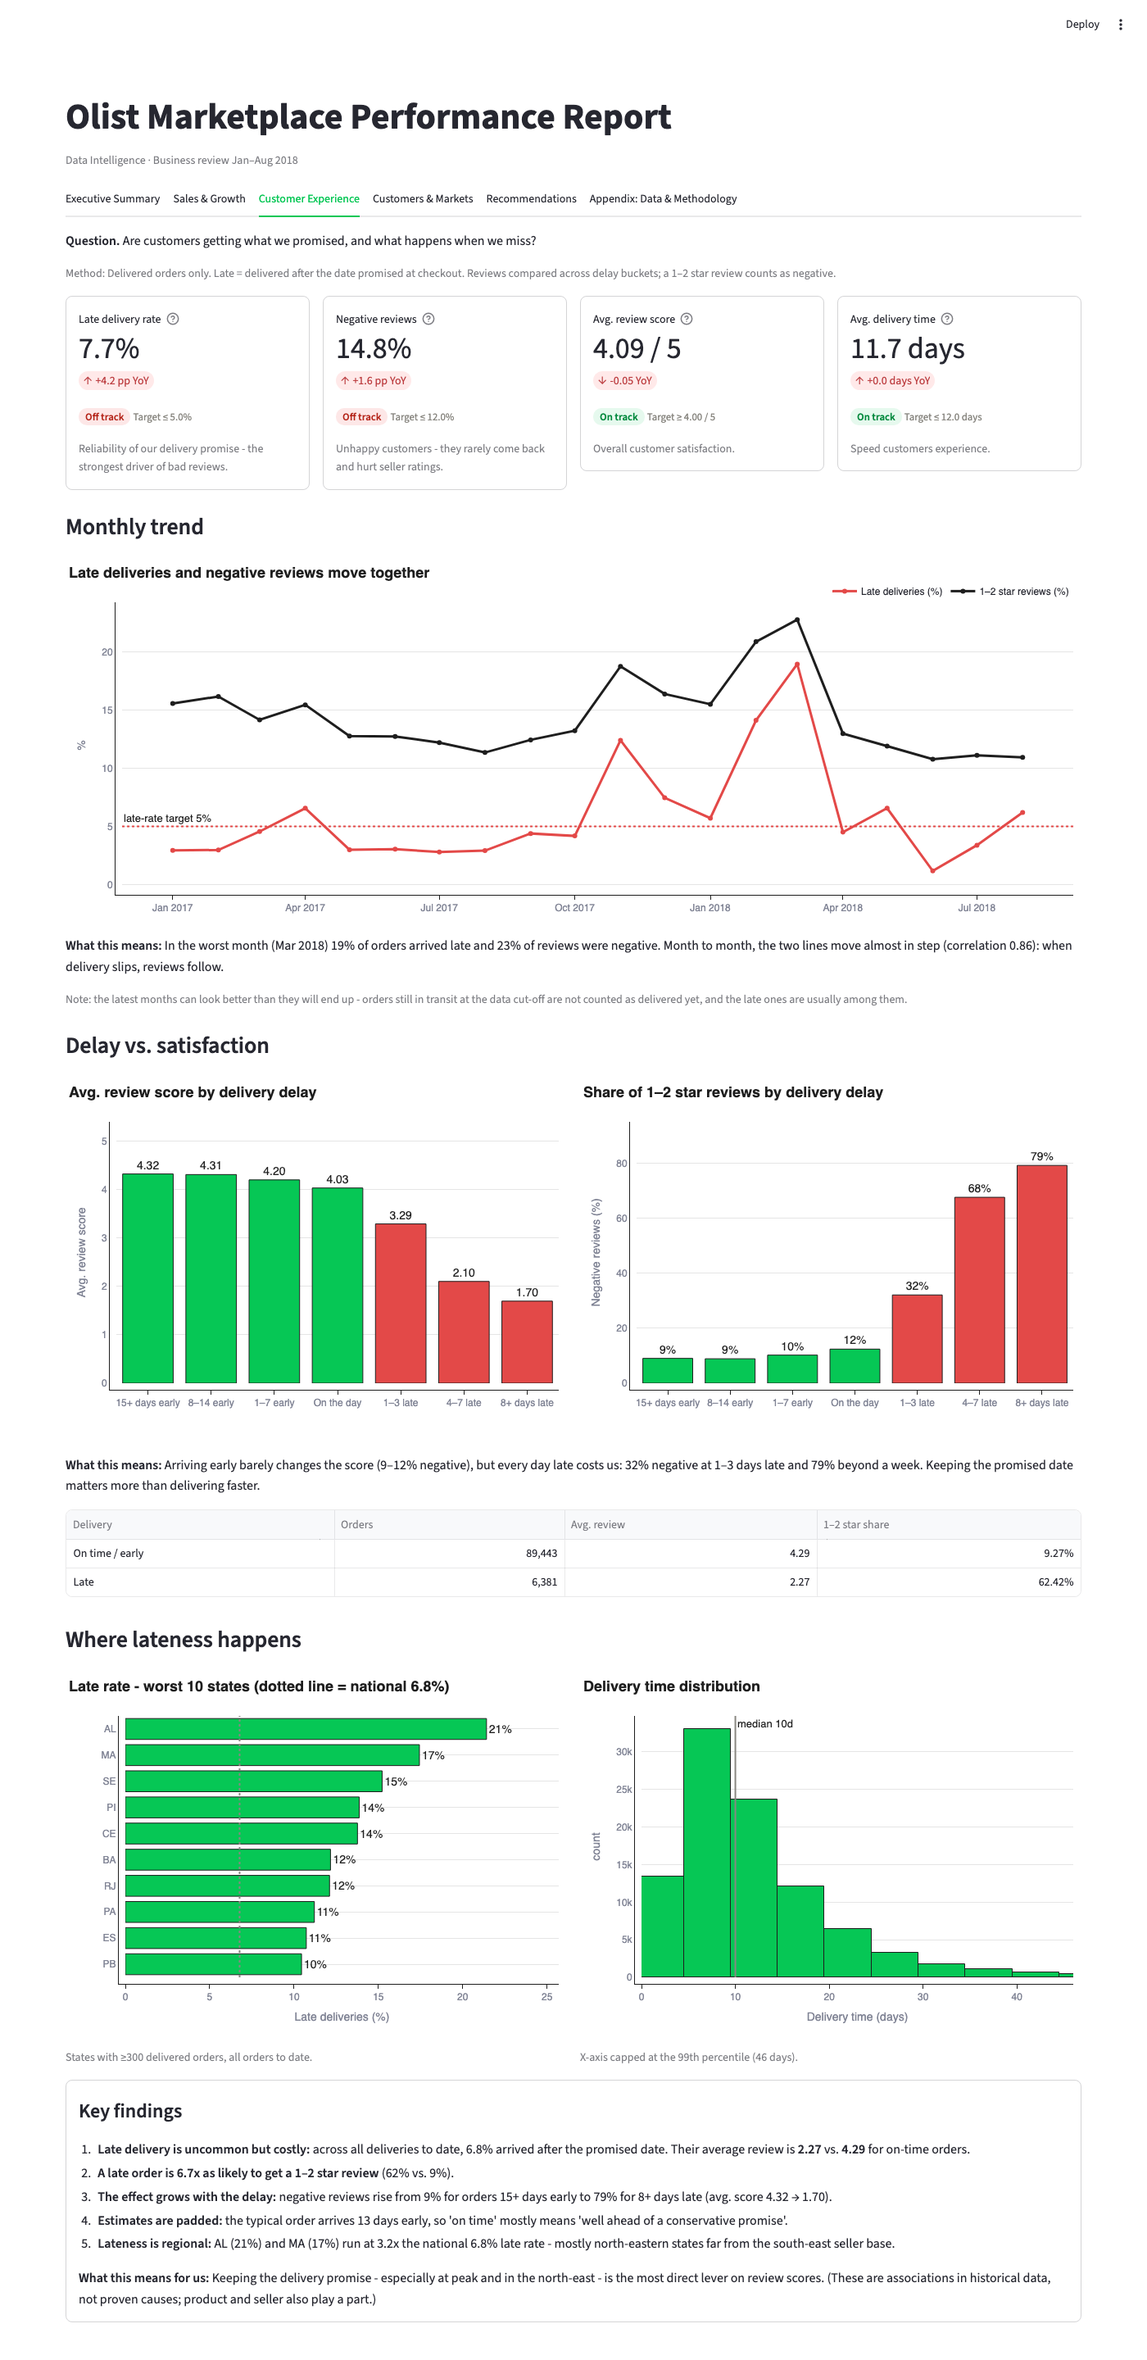
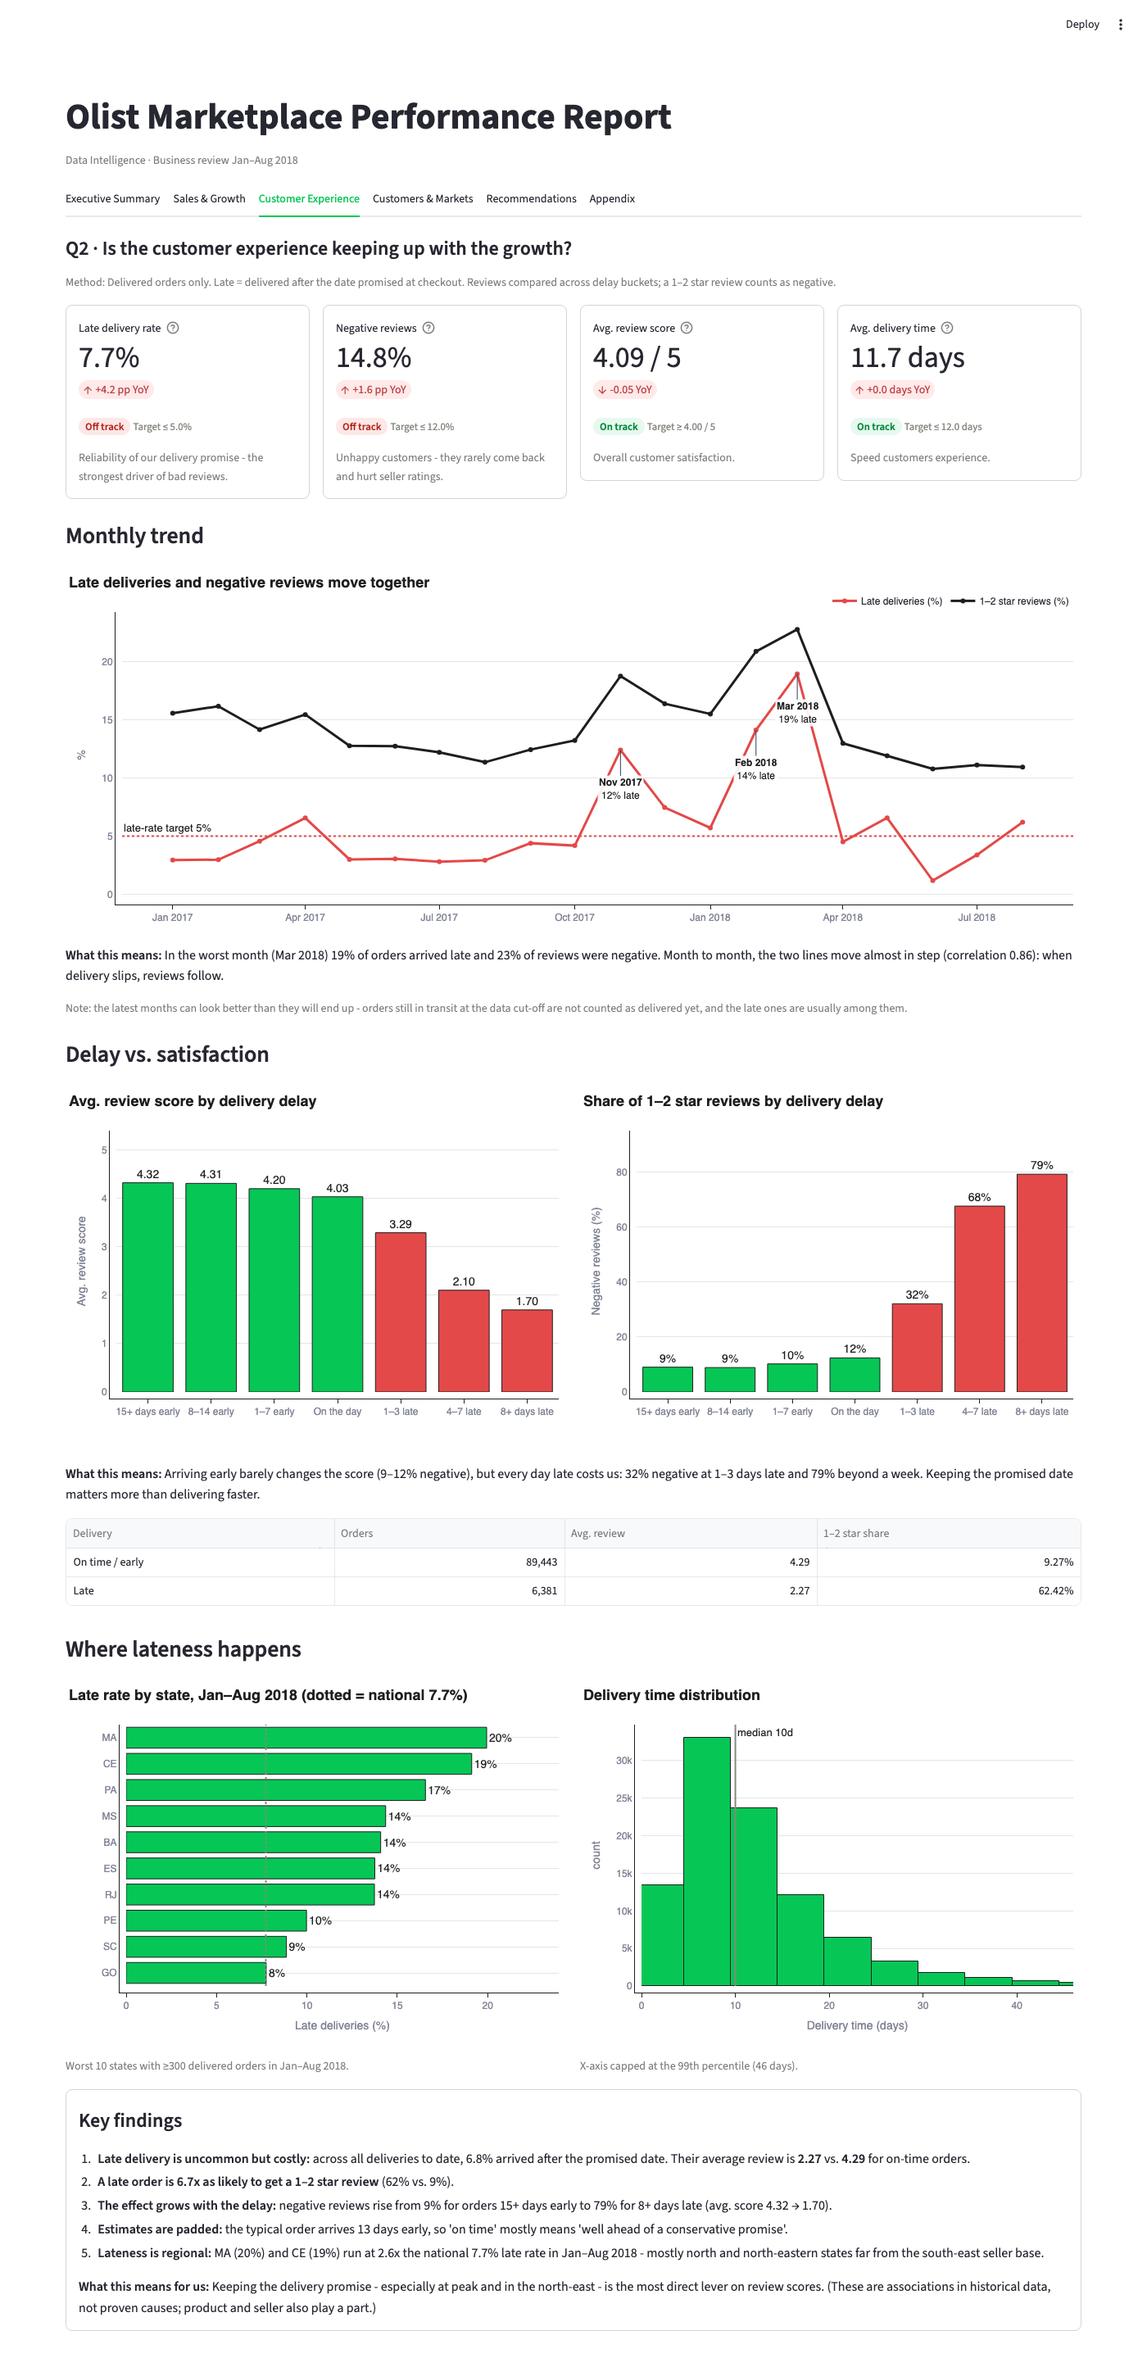
Align report visuals with presentation storyline

diff --git a/src/sections/summary.py b/src/sections/summary.py
@@ -4,6 +4,7 @@ import streamlit as st
 from src.currency import fmt_money_short
 from src.kpis import KPI_BY_KEY, monthly_kpis, render_cards, reporting_periods, scorecard
 from src.sections.recommendations import recommendations
+from src.story import QUESTIONS, annotate_crises, crisis_months
 from src.theme import ACCENT_RED, GRID_GREY, INK, style_fig, takeaway
 
 
@@ -24,6 +25,7 @@ def _growth_vs_reliability_fig():
         legend=dict(orientation="h", y=1.1, x=1, xanchor="right"),
         hovermode="x unified",
     )
+    annotate_crises(fig, yref="y2")
     return style_fig(fig)
 
 
@@ -32,20 +34,36 @@ def render() -> None:
     card = scorecard()
     recs = recommendations()
     monthly = monthly_kpis().set_index("month")
-    crisis = monthly[monthly["late"] > 2 * KPI_BY_KEY["late"].target]
+    crisis = crisis_months().set_index("month")
     last3 = monthly.tail(3)
+    this_year = monthly[monthly.index.year == periods["as_of"].year]
+    peak_month = monthly["orders"].idxmax()
 
     with st.container(border=True):
-        st.markdown("#### Bottom line")
+        st.markdown("#### Problem statement")
         st.markdown(
-            f"We more than doubled the business - GMV **{fmt_money_short(card.loc['gmv', 'current'])}** "
-            f"(**{card.loc['gmv', 'change']:+.0%}** YoY) on **{card.loc['orders', 'current']:,.0f}** orders - "
-            f"but **delivery did not keep up**. The late delivery rate rose from {card.loc['late', 'prior']:.1%} to "
-            f"**{card.loc['late', 'current']:.1%}**, pushing negative reviews to **{card.loc['negative', 'current']:.1%}**. "
-            f"The damage came from peak months ({', '.join(f'{m:%b %Y}' for m in crisis.index)}) and has since "
-            f"recovered, which makes **Black Friday {periods['as_of'].year} the main risk** for the rest of the year. "
-            f"Growth is also almost entirely new customers: only **{card.loc['returning', 'current']:.1%}** of orders "
-            "come from returning buyers.".replace("$", "\\$")
+            "Olist grew very fast through 2017–2018. Fast growth raises a question management needs answered: "
+            f"**is the growth healthy?** With Black Friday {periods['as_of'].year} three months away - our busiest "
+            "period of the year - this review answers three questions:"
+        )
+        where = {1: "Sales & Growth, Customers & Markets", 2: "Customer Experience", 3: "Recommendations"}
+        st.markdown("\n".join(f"{n}. **{q}** *(→ {where[n]})*" for n, q in QUESTIONS.items()))
+
+    with st.container(border=True):
+        st.markdown("#### Answers in short")
+        st.markdown(
+            f"1. **Yes, but growth has levelled off.** GMV {fmt_money_short(card.loc['gmv', 'current'])} "
+            f"(**{card.loc['gmv', 'change']:+.0%}** YoY) on {card.loc['orders', 'current']:,.0f} orders, driven by the "
+            f"jump around Black Friday {peak_month:%Y}; since then volume is flat at "
+            f"{this_year['orders'].min() / 1000:.1f}–{this_year['orders'].max() / 1000:.1f}K orders a month, and a few "
+            "categories and sellers carry most of the revenue.\n"
+            f"2. **No - delivery did not keep up.** The late delivery rate rose from {card.loc['late', 'prior']:.1%} to "
+            f"**{card.loc['late', 'current']:.1%}**, breaking down in the peak months "
+            f"({', '.join(f'{m:%b %Y}' for m in crisis.index)}), and negative reviews rose to "
+            f"**{card.loc['negative', 'current']:.1%}**. Only {card.loc['returning', 'current']:.1%} of orders come "
+            "from returning customers.\n"
+            f"3. **Secure delivery capacity for Black Friday {periods['as_of'].year} first**, then fix the worst-served "
+            "states and start a second-purchase program.".replace("$", "\\$")
         )
 
     st.subheader("KPI scorecard")
@@ -58,10 +76,11 @@ def render() -> None:
 
     st.subheader("The story in one chart")
     st.plotly_chart(_growth_vs_reliability_fig())
+    normal = monthly.loc[monthly.index < crisis.index.min(), "late"].median()
     takeaway(
-        f"Late deliveries stayed near {monthly.loc[:crisis.index.min()].iloc[:-1]['late'].median():.0%} while volume "
-        f"grew steadily, then spiked to {crisis['late'].max():.0%} when demand peaked. Since then the rate is back "
-        f"to {last3['late'].min():.0%}–{last3['late'].max():.0%}. The system works at normal load and breaks at "
+        f"In normal months about {normal:.0%} of orders arrive late. When demand peaked, the late rate jumped to "
+        f"{', '.join(f'{r.late:.0%} ({m:%b %Y})' for m, r in crisis.iterrows())}. It has since recovered to "
+        f"{last3['late'].mean():.1%} on average over the last 3 months. The system works at normal load but breaks at "
         "peak load - that is what to fix before November."
     )
 
@@ -90,7 +109,7 @@ def render() -> None:
                 "- **Concentration risk:** a small group of sellers and categories carries most of the revenue."
             )
 
-    st.subheader("Recommended actions")
+    st.subheader(f"Q3 · {QUESTIONS[3]}")
     for i, r in enumerate(recs[:3], 1):
         st.markdown(f"{i}. **{r['title']}** ({r['priority']} priority, {r['owner']}) - {r['impact']}".replace("$", "\\$"))
     st.caption("Full evidence, actions and impact sizing in the *Recommendations* tab.")

diff --git a/src/sections/sales.py b/src/sections/sales.py
@@ -7,6 +7,7 @@ from src.currency import get_currency
 from src.data_loader import load_order_level
 from src.metrics import category_pareto, monthly_sales, n_for_share, peak_day, seller_pareto, yoy_growth
 from src.kpis import render_cards, reporting_periods
+from src.story import QUESTIONS, question_label
 from src.theme import BRAND_COLOR, NEUTRAL_GREY, INK, key_findings, section_header, style_fig, takeaway
 
 
@@ -29,7 +30,7 @@ def _pareto_fig(p, label, top, title):
 
 def render() -> None:
     section_header(
-        "Are we growing, and where does our revenue come from?",
+        f"{question_label(1)} · {QUESTIONS[1]}",
         "Same months compared year over year; month-over-month change for the latest months; share of revenue "
         "by product category and seller.",
     )
@@ -45,22 +46,29 @@ def render() -> None:
 
     st.subheader("This year vs. last year")
     periods = reporting_periods()
-    yoy_df = m.assign(year=m["month"].dt.year.astype(str), month_name=m["month"].dt.strftime("%b"),
-                      gmv=m["revenue"] / rate)
-    fig = px.line(yoy_df, x="month_name", y="gmv", color="year", markers=True, title="Monthly GMV by year",
-                  labels={"gmv": f"GMV ({symbol})", "month_name": "", "year": ""},
+    yoy_df = m.assign(year=m["month"].dt.year.astype(str), month_name=m["month"].dt.strftime("%b"))
+    this_year = m[m["month"].dt.year == yoy["year"]]
+    fig = px.line(yoy_df, x="month_name", y="orders", color="year", markers=True,
+                  title="Monthly orders by year - a step up at Black Friday, then flat",
+                  labels={"orders": "Orders", "month_name": "", "year": ""},
                   color_discrete_map={str(yoy["year"] - 1): NEUTRAL_GREY, str(yoy["year"]): BRAND_COLOR})
     fig.update_xaxes(categoryorder="array", categoryarray=pd.date_range("2000-01-01", periods=12, freq="MS").strftime("%b"))
-    fig.add_annotation(x=f"{peak_m['month']:%b}", y=peak_m["revenue"] / rate, text=f"Black Friday {peak_m['month']:%Y}",
-                       showarrow=True, arrowhead=0)
-    fig.update_layout(legend=dict(orientation="h", y=1.08, x=1, xanchor="right"))
+    fig.add_hrect(y0=this_year["orders"].min(), y1=this_year["orders"].max(), fillcolor=BRAND_COLOR, opacity=0.08,
+                  line_width=0, annotation_text=f"{yoy['year']}: flat at {this_year['orders'].min() / 1000:.1f}–"
+                  f"{this_year['orders'].max() / 1000:.1f}K orders/month", annotation_position="bottom left")
+    fig.add_annotation(x=f"{peak_m['month']:%b}", y=peak_m["orders"],
+                       text=f"<b>Black Friday {peak_m['month']:%Y}</b><br>{peak_d['date']:%d %b}: "
+                            f"{int(peak_d['orders']):,} orders in one day ({peak_d['orders'] / peak_d['median']:.0f}x normal)",
+                       showarrow=True, arrowhead=0, ax=-60, ay=-40)
+    fig.update_layout(legend=dict(orientation="h", y=1.08, x=1, xanchor="right"),
+                      yaxis_range=[0, yoy_df["orders"].max() * 1.25])
     st.plotly_chart(style_fig(fig))
-    latest = m.iloc[-1]
     takeaway(
         f"Every month of {yoy['year']} is well above the same month of {yoy['year'] - 1} "
-        f"(GMV {yoy['revenue']:+.0%} YoY for {periods['label']}), but the {yoy['year']} line is flat: "
-        f"{latest['month']:%B} GMV was {latest['revenue_mom']:+.0%} vs. the month before. The growth came from the "
-        f"step-up around Black Friday {yoy['year'] - 1}, not from continued monthly growth this year."
+        f"(orders {yoy['orders']:+.0%}, GMV {yoy['revenue']:+.0%} YoY for {periods['label']}), but the {yoy['year']} "
+        f"line is flat at {this_year['orders'].min() / 1000:.1f}–{this_year['orders'].max() / 1000:.1f}K orders a "
+        f"month. The growth came from one big step up around Black Friday {yoy['year'] - 1}, not from continued "
+        "monthly growth this year."
     )
 
     table = m.assign(revenue=m["revenue"] / rate)
@@ -77,7 +85,7 @@ def render() -> None:
             },
         )
 
-    st.subheader("Concentration")
+    st.subheader("Where the revenue comes from - and the concentration risk")
     cats = category_pareto()
     sellers = seller_pareto()
     n80 = n_for_share(cats)
@@ -113,7 +121,6 @@ def render() -> None:
              f"them would hurt more than losing the bottom half. Credit card is the default way to pay, and "
              f"{window['payment_installments'].gt(1).mean():.0%} of orders are paid in installments.")
 
-    this_year = m[m["month"].dt.year == yoy["year"]]
     freight_share = window["freight_value"].sum() / (window["item_price"].sum() + window["freight_value"].sum())
     installments = window["payment_installments"].gt(1).mean()
     key_findings(

diff --git a/src/sections/delivery.py b/src/sections/delivery.py
@@ -3,7 +3,8 @@ import plotly.express as px
 import plotly.graph_objects as go
 import streamlit as st
 
-from src.kpis import KPI_BY_KEY, monthly_kpis, render_cards
+from src.kpis import KPI_BY_KEY, monthly_kpis, period_slice, render_cards, reporting_periods
+from src.story import QUESTIONS, annotate_crises, question_label
 from src.metrics import LOW_SCORE, delivered_orders, late_vs_on_time
 from src.theme import ACCENT_RED, BRAND_COLOR, INK, NEUTRAL_GREY, key_findings, section_header, style_fig, takeaway
 
@@ -30,7 +31,7 @@ def _bucket(delay: pd.Series) -> pd.Series:
 
 def render() -> None:
     section_header(
-        "Are customers getting what we promised, and what happens when we miss?",
+        f"{question_label(2)} · {QUESTIONS[2]}",
         "Delivered orders only. Late = delivered after the date promised at checkout. Reviews compared across "
         f"delay buckets; a 1–{LOW_SCORE} star review counts as negative.",
     )
@@ -49,6 +50,7 @@ def render() -> None:
                     mode="lines+markers", line=dict(color=INK, width=2))
     fig.add_hline(y=KPI_BY_KEY["late"].target * 100, line_dash="dot", line_color=ACCENT_RED,
                   annotation_text=f"late-rate target {KPI_BY_KEY['late'].target:.0%}", annotation_position="top left")
+    annotate_crises(fig, below=True)
     fig.update_layout(title="Late deliveries and negative reviews move together", yaxis_title="%",
                       legend=dict(orientation="h", y=1.08, x=1, xanchor="right"), hovermode="x unified")
     st.plotly_chart(style_fig(fig))
@@ -108,20 +110,23 @@ def render() -> None:
 
     st.subheader("Where lateness happens")
     col1, col2 = st.columns(2)
-    national = d["is_late"].mean() * 100
+    periods = reporting_periods()
+    cur = period_slice("current")
+    cur = cur[(cur["order_status"] == "delivered") & cur["delivery_days"].notna()]
+    national = cur["is_late"].mean() * 100
     with col1:
-        by_state = d.groupby("customer_state").agg(orders=("order_id", "size"), late=("is_late", "mean")).reset_index()
+        by_state = cur.groupby("customer_state").agg(orders=("order_id", "size"), late=("is_late", "mean")).reset_index()
         by_state = by_state[by_state["orders"] >= MIN_STATE_ORDERS].sort_values("late", ascending=False).head(10)
         by_state["pct"] = by_state["late"] * 100
         fig = px.bar(by_state.sort_values("pct"), x="pct", y="customer_state", orientation="h",
-                     title=f"Late rate - worst 10 states (dotted line = national {national:.1f}%)",
+                     title=f"Late rate by state, {periods['label']} (dotted = national {national:.1f}%)",
                      labels={"pct": "Late deliveries (%)", "customer_state": ""},
                      text=by_state.sort_values("pct")["pct"].map(lambda v: f"{v:.0f}%"), hover_data={"orders": ":,"})
         fig.update_traces(marker_color=BRAND_COLOR, textposition="outside")
         fig.add_vline(x=national, line_color=NEUTRAL_GREY, line_dash="dot")
         fig.update_layout(xaxis_range=[0, by_state["pct"].max() * 1.2])
         st.plotly_chart(style_fig(fig))
-        st.caption(f"States with ≥{MIN_STATE_ORDERS} delivered orders, all orders to date.")
+        st.caption(f"Worst 10 states with ≥{MIN_STATE_ORDERS} delivered orders in {periods['label']}.")
     with col2:
         p99 = d["delivery_days"].quantile(0.99)
         fig = px.histogram(d, x="delivery_days", nbins=60, title="Delivery time distribution",
@@ -151,7 +156,8 @@ def render() -> None:
             "early, so 'on time' mostly means 'well ahead of a conservative promise'.",
             f"**Lateness is regional:** {worst['customer_state']} ({worst['pct']:.0f}%) and "
             f"{by_state.iloc[1]['customer_state']} ({by_state.iloc[1]['pct']:.0f}%) run at "
-            f"{worst['pct'] / national:.1f}x the national {national:.1f}% late rate - mostly north-eastern states "
+            f"{worst['pct'] / national:.1f}x the national {national:.1f}% late rate in {periods['label']} - mostly "
+            "north and north-eastern states "
             "far from the south-east seller base.",
         ],
         so_what="Keeping the delivery promise - especially at peak and in the north-east - is the most direct "

diff --git a/src/story.py b/src/story.py
@@ -1,0 +1,34 @@
+"""The report's storyline: the three questions it answers, and the peak months
+where delivery broke down - shared so every tab tells the same story."""
+
+import pandas as pd
+
+from src.kpis import KPI_BY_KEY, monthly_kpis
+
+QUESTIONS = {
+    1: "Are we really growing, and where does the revenue come from?",
+    2: "Is the customer experience keeping up with the growth?",
+    3: "What should we do before Black Friday 2018?",
+}
+
+
+def question_label(*numbers: int) -> str:
+    return " & ".join(f"Q{n}" for n in numbers)
+
+
+def crisis_months() -> pd.DataFrame:
+    """Months whose late-delivery rate was more than double the target."""
+    m = monthly_kpis()
+    return m[m["late"] > 2 * KPI_BY_KEY["late"].target]
+
+
+def annotate_crises(fig, y_col: str = "late", yref: str = "y", scale: float = 100, below: bool = False) -> None:
+    """Label each crisis month on a late-rate line: 'Nov 2017 · 12%'. `below` puts the label under the
+    point, for charts where another line runs above it."""
+    for _, row in crisis_months().iterrows():
+        fig.add_annotation(
+            x=row["month"], y=row[y_col] * scale, yref=yref,
+            text=f"<b>{row['month']:%b %Y}</b><br>{row[y_col]:.0%} late",
+            showarrow=True, arrowhead=0, ax=0, ay=48 if below else -36, font=dict(size=12),
+            bgcolor="rgba(255,255,255,0.9)",
+        )

diff --git a/src/sections/recommendations.py b/src/sections/recommendations.py
@@ -5,6 +5,7 @@ from src.currency import fmt_money_short
 from src.data_loader import load_item_level
 from src.kpis import KPI_BY_KEY, fmt_target, monthly_kpis, period_slice, reporting_periods, scorecard
 from src.metrics import late_vs_on_time
+from src.story import QUESTIONS, question_label
 from src.theme import section_header
 
 MIN_STATE_ORDERS = 300
@@ -112,7 +113,7 @@ def recommendations() -> list:
 
 def render() -> None:
     section_header(
-        "What should we do next, and what is it worth?",
+        f"{question_label(3)} · {QUESTIONS[3]} And what is each action worth?",
         "Each action is tied to a KPI that is off track. Impacts are rough estimates that assume the "
         "relationships observed in the data continue to hold - they size the opportunity, not a forecast.",
     )

diff --git a/src/sections/customers.py b/src/sections/customers.py
@@ -4,12 +4,13 @@ import streamlit as st
 from src.data_loader import load_order_level, load_raw
 from src.metrics import orders_per_customer
 from src.kpis import render_cards
+from src.story import question_label
 from src.theme import BRAND_COLOR, NEUTRAL_GREY, key_findings, section_header, style_fig, takeaway
 
 
 def render() -> None:
     section_header(
-        "Who buys from us, do they come back, and where are they?",
+        f"{question_label(1, 2)} · Who buys from us, do they come back, and where are they?",
         "Customers counted as people (customer_unique_id), all orders to date. Purchase frequency, share of "
         "orders and GMV by state.",
     )

diff --git a/src/theme.py b/src/theme.py
@@ -49,7 +49,7 @@ def style_fig(fig):
 
 def section_header(question: str, method: str) -> None:
     """Opening of every report tab: the question it answers and how."""
-    st.markdown(f"**Question.** {question}")
+    st.markdown(f"#### {question}")
     st.caption(f"Method: {method}")
 
 
